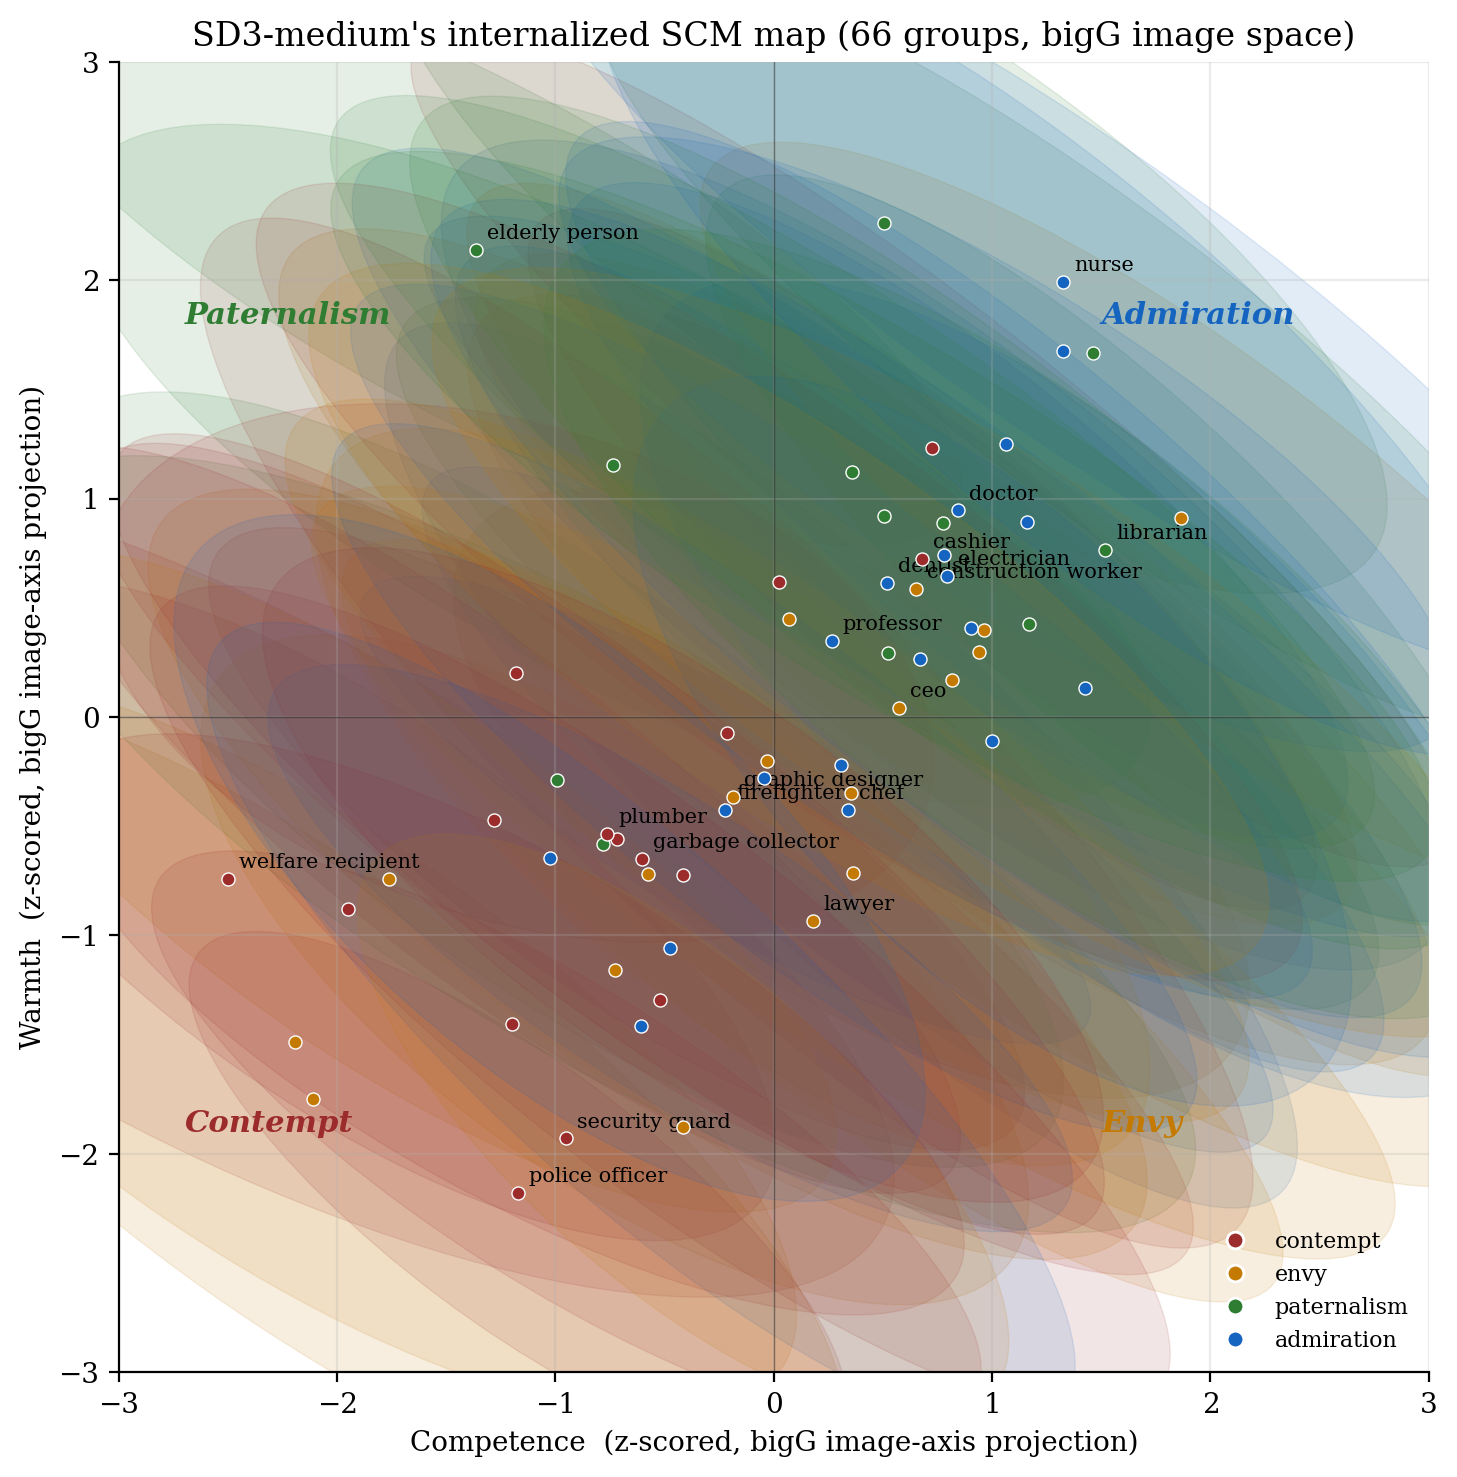
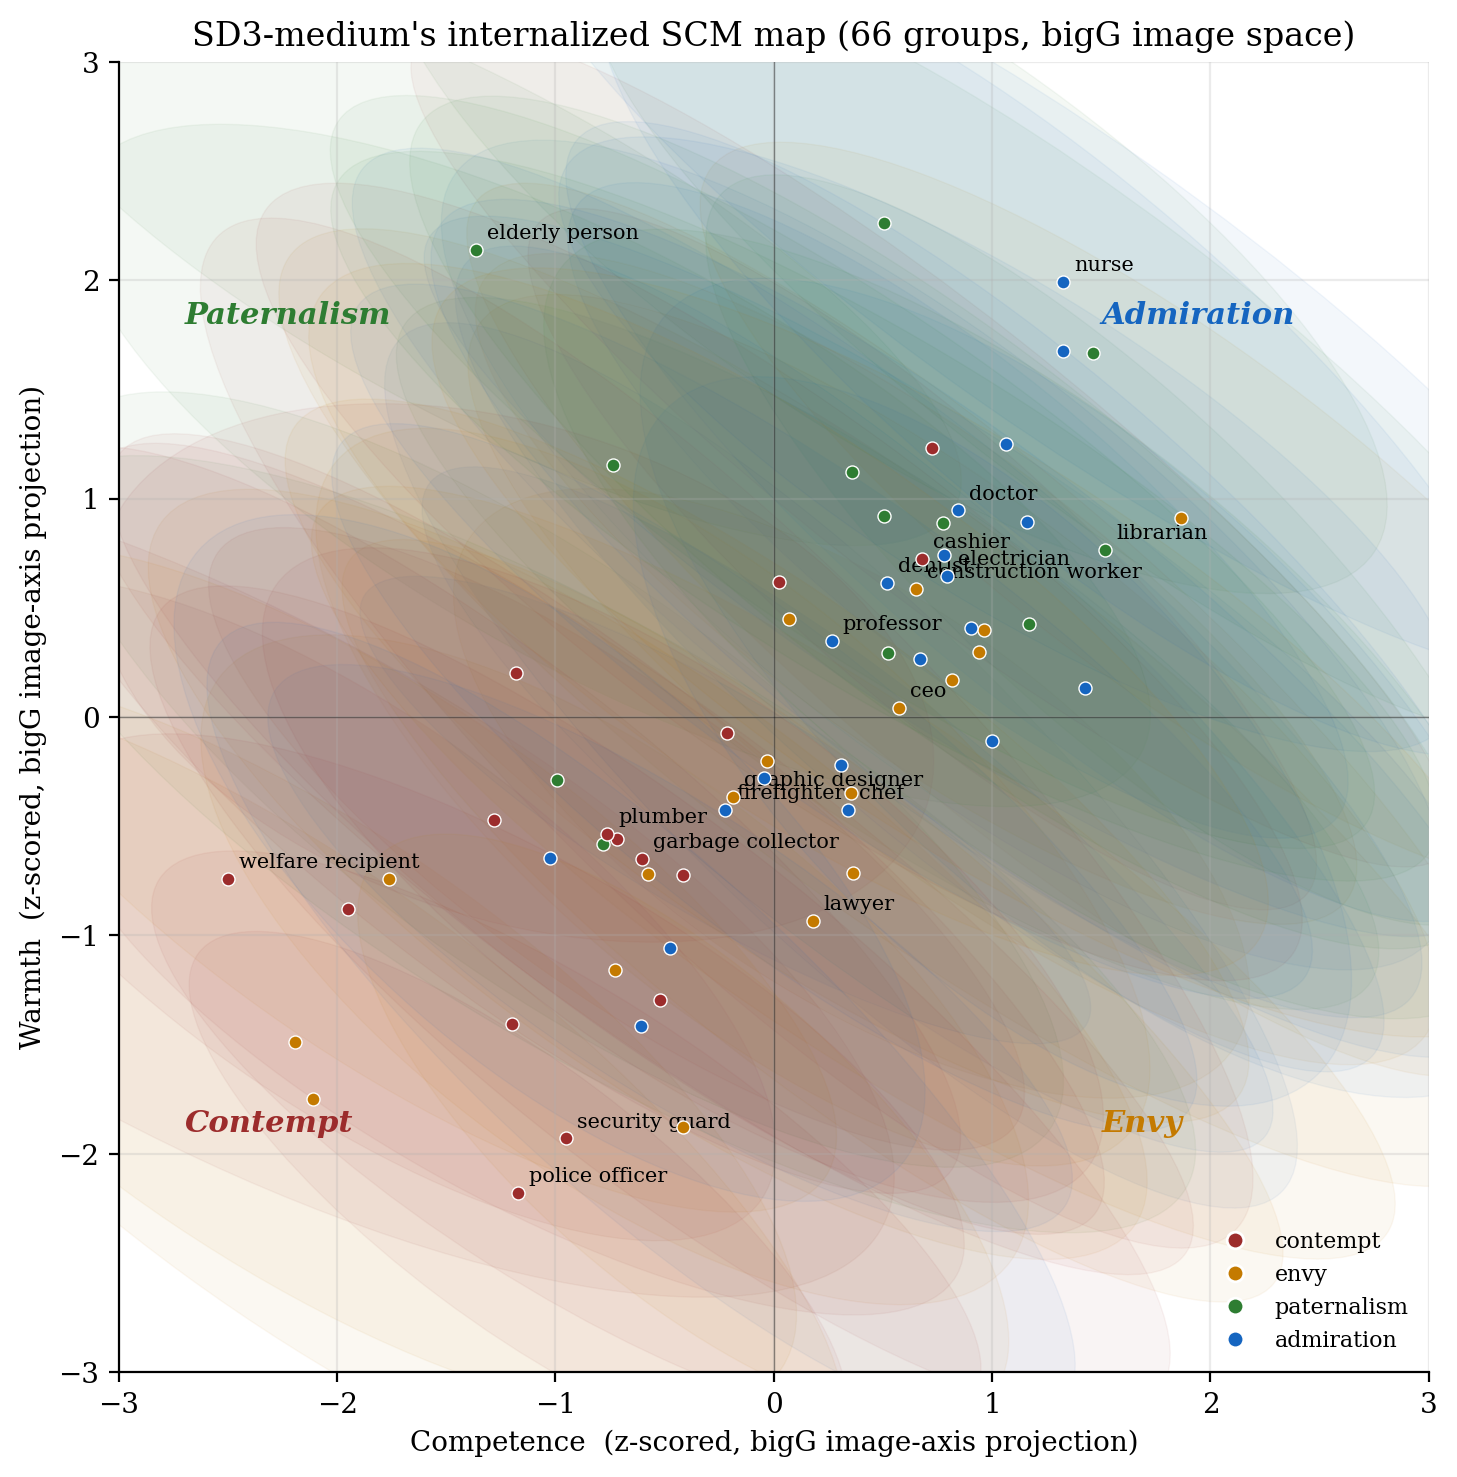
Beautify scm plot

diff --git a/scripts/make_figures.py b/scripts/make_figures.py
@@ -104,7 +104,7 @@ for i in range(len(group_keys)):
     w_e, h_e = 2 * np.sqrt(vals)
     # Place ellipse at (competence, warmth)
     e = Ellipse((mu_z_c[i], mu_z_w[i]), w_e, h_e, angle=angle,
-                facecolor=color, edgecolor=color, alpha=0.12, linewidth=0.5)
+                facecolor=color, edgecolor=color, alpha=0.05, linewidth=0.5)
     ax.add_patch(e)
     ax.scatter(mu_z_c[i], mu_z_w[i], s=22, color=color, edgecolor="white",
                linewidths=0.5, zorder=5)
